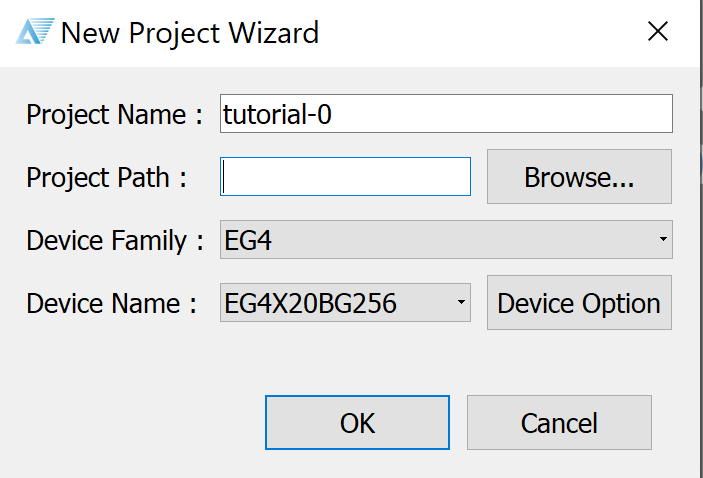
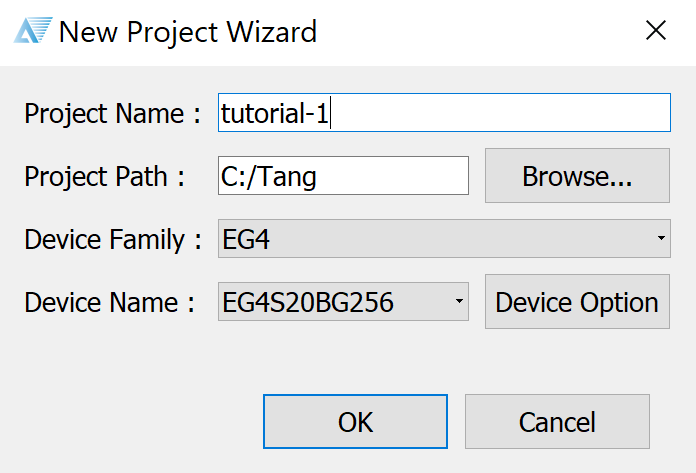
edited chip selection

diff --git a/README.md b/README.md
@@ -322,7 +322,7 @@ Right-click the Project menu and click on `New Project`.
 
 ![](/images/td-newproject-1.PNG)
 
-Select the correct device name for the board, `EG4X20BG256`.
+Select the correct device name for the board, `EG4S20BG256`.
 
 ![](/images/td-newproject-2.PNG)
 
